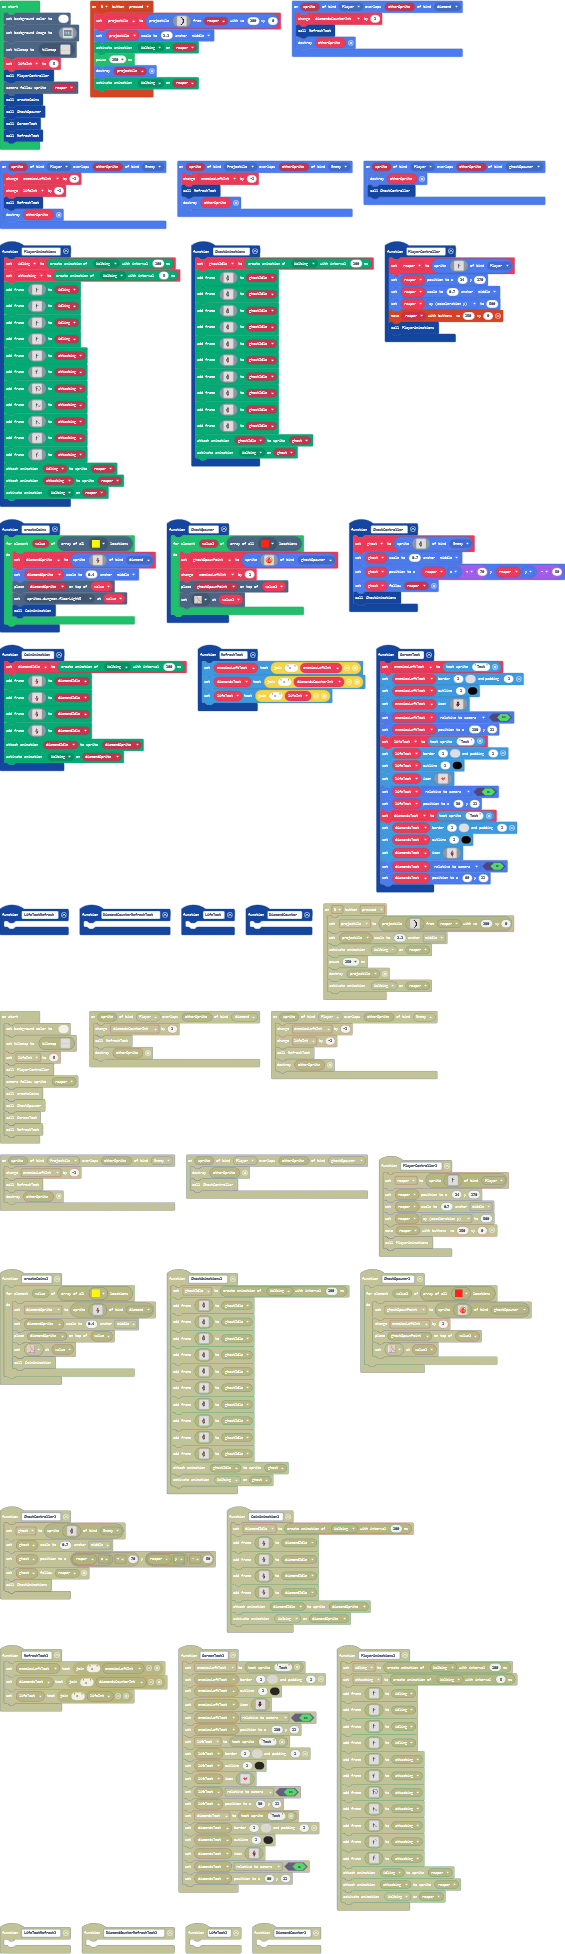
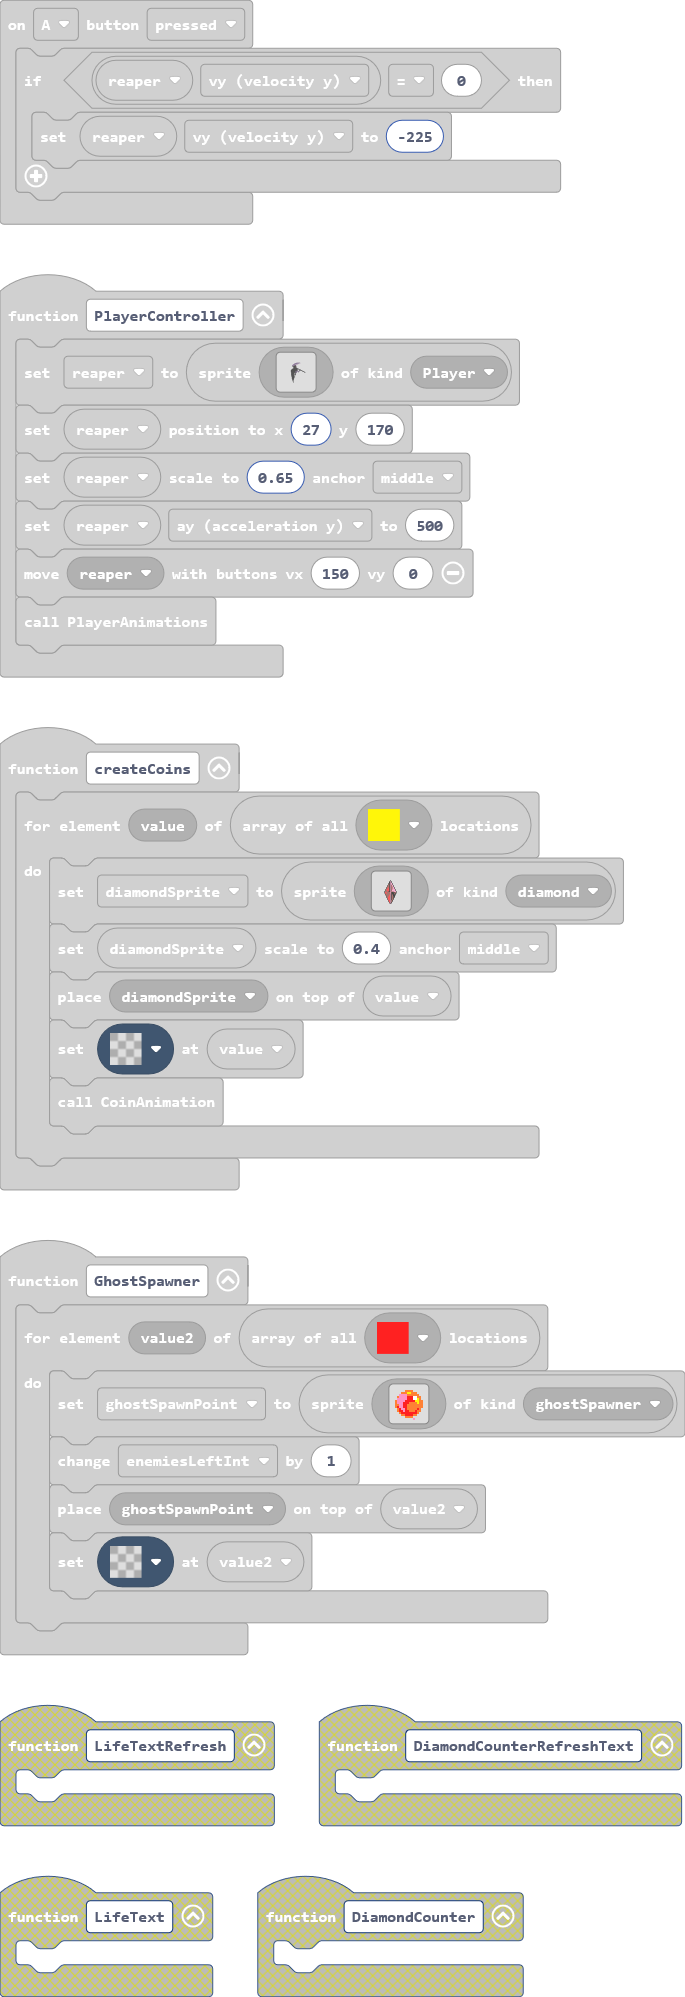
starting level tiles

diff --git a/tilemap.g.ts b/tilemap.g.ts
@@ -6,6 +6,26 @@ namespace myTiles {
     export const tile1 = image.ofBuffer(hex``);
     //% fixedInstance jres blockIdentity=images._tile
     export const tile2 = image.ofBuffer(hex``);
+    //% fixedInstance jres blockIdentity=images._tile
+    export const tile4 = image.ofBuffer(hex``);
+    //% fixedInstance jres blockIdentity=images._tile
+    export const tile5 = image.ofBuffer(hex``);
+    //% fixedInstance jres blockIdentity=images._tile
+    export const tile7 = image.ofBuffer(hex``);
+    //% fixedInstance jres blockIdentity=images._tile
+    export const tile6 = image.ofBuffer(hex``);
+    //% fixedInstance jres blockIdentity=images._tile
+    export const tile9 = image.ofBuffer(hex``);
+    //% fixedInstance jres blockIdentity=images._tile
+    export const tile8 = image.ofBuffer(hex``);
+    //% fixedInstance jres blockIdentity=images._tile
+    export const tile10 = image.ofBuffer(hex``);
+    //% fixedInstance jres blockIdentity=images._tile
+    export const tile3 = image.ofBuffer(hex``);
+    //% fixedInstance jres blockIdentity=images._tile
+    export const tile11 = image.ofBuffer(hex``);
+    //% fixedInstance jres blockIdentity=images._tile
+    export const tile12 = image.ofBuffer(hex``);
 
     helpers._registerFactory("tilemap", function(name: string) {
         switch(helpers.stringTrim(name)) {
@@ -66,25 +86,44 @@ namespace myTiles {
 . . . . . . . . . . . . . . . . 
 . . . . . . . . . . . . . . . . 
 `, [myTiles.transparency16], TileScale.Sixteen);
+            case "level5":
+            case "level5":return tiles.createTilemap(hex`1000100000000000000000000000000000000000000000000000000000000000000000000000000000000000000000000000000000000000000000000000000000000000000000000000000000000000000000000000000000000000000000000000000000000000000000000000000000000000000000000000000000000000000000000000000000000000000000000000000000000000000000000000000000000000000000000000000000000000000000000000000000000000000000000000000000000000000000000000000000000000000000000000000000000000000000000000000000000000000000000000000000000000000000000000000000000000`, img`
+. . . . . . . . . . . . . . . . 
+. . . . . . . . . . . . . . . . 
+. . . . . . . . . . . . . . . . 
+. . . . . . . . . . . . . . . . 
+. . . . . . . . . . . . . . . . 
+. . . . . . . . . . . . . . . . 
+. . . . . . . . . . . . . . . . 
+. . . . . . . . . . . . . . . . 
+. . . . . . . . . . . . . . . . 
+. . . . . . . . . . . . . . . . 
+. . . . . . . . . . . . . . . . 
+. . . . . . . . . . . . . . . . 
+. . . . . . . . . . . . . . . . 
+. . . . . . . . . . . . . . . . 
+. . . . . . . . . . . . . . . . 
+. . . . . . . . . . . . . . . . 
+`, [myTiles.transparency16], TileScale.Sixteen);
             case "level":
-            case "level3":return tiles.createTilemap(hex`800010000000000000000000000000000000000000000000000000000000000000000000000000000000000000000000000000000000000000000000000000000000000000000000000000000000000000000000000000000000000000000000000000000000000000000000000000000000000000000000000000000000000000000000000000000000000000000000000000000000000000000000000000000000000000000000000000000000000000000000000000000000000000000000000000000000000000000000000000000000000000000000000000000000000000000000000000000000000000000000000000000000000000000000000000000000000000000000000000000000000000000000000000000000000000000000000000000000000000000000000000000000000000000000000000000000000000000000000000000000000000000000000000000000000000000000000000000000000000000000000000000000000000000000000000000000000000000000000000000000000000000000000000000000000000000000000000000000000000000000000000000000000000000000000000000000000000000000000000000000000000000000000000000000000000000000000000000000000000000000000000000000000000000000000000000000000000000000000000000000000000000000000000000000000000000000000000000000000000000000000000000000000000000000000000000000000000000000000000000000000000000000000000000000000000000000000000000000000000000000000000000000000000000000000000000000000000000000000000000000000000000000000000000000000000000000000000000000000000000000000000000000000000000000000000000000000000000000000000000000000000000000000000000000000000000000000000000000000000000000000000000000000000000000000000000000000000000000000000000000000000000000000000000000000000000000000000000000000000000000000000000000000000000000000000000000000000000000000000000000000000000000000000000000000000000000000000000000000000000000000000000000000000000000000000000000000000000000000000000000000000000000000000000000000000000000000000000000000000000000000000000000000000000000000000000000000000000000000000000000000000000000000000000000000000000000000000000000000000000000000000000000000000000000000000000000000000000000000000000000000000000000000000000000000000000000000000000000000000000000000000000000000000000000000000000000000000000000000000000000000000000000000000000000000000000000000000000000000000000000000000000000000000000000000000000000000000000000000000000000000000000000000000000000000000000000000000000000000000000000000000000000000000000000000000000000000000000000000000000000000000000000000000000000000000000000000000000000000000000000000000000000000000000000000000000000000000000000000000000000000000000000000000000000000000000000000000000000000000000000000000000000000000000000000000000000000000000000000000000000000000000000000000000000000000000000000000000000000000000000000000000000000000000000000000000000000000000000000000000000000000000000000000000000000000000000000000000000000000000000000000000000000000000000000000000000000000000000000000000000000000000000000000000000000000000000000000000000000000000000000000000000000000000000000000000000000000000000000000000000000000000000000000000000000000000000000000000000000000000000000000000000000000000000000000000000000000000000000000000000000000000000000000000000000000000000000000000000000000000000000000000000000000000000000000000000000000000000000000000000000000000000000000000000000000000000000000000000000000000000000000000000000000000000000000000000000000000000000000000000000000000000000000000000000000000000030404040404000000000000000000000000000000000000000000000000000000000000000000000000000000000000000000000000000000000000000000000000000000000000000000000000000000000000000000000000000000000000000000000000000000000000000000000000000000000000000000000000000001010101010101010101010101010101010101010101010101010101010101010101010101010101010101010101010101010101010101010101010101010101010101010101010101010101010101010101010101010101010101010101010101010101010101010101010101010101010101010101010101010101010101010202020202020202020202020202020202020202020202020202020202020202020202020202020202020202020202020202020202020202020202020202020202020202020202020202020202020202020202020202020202020202020202020202020202020202020202020202020202020202020202020202020202020202`, img`
[1 lines of base64/hex data omitted]
+................................................................................................................................
+2...............................................................................................................................
+2...............................................................................................................................
+2............222................................................................................................................
+2.......................2.......................................................................................................
+2............2.......222........................................................................................................
+2............2..........2.......................................................................................................
+2222222......2..........2.......................................................................................................
+2.............22........2.......................................................................................................
+2.......................2.......................................................................................................
+2.......................2.......................................................................................................
+2....................222........................................................................................................
+2...............................................................................................................................
+222222........2222222222........................................................................................................
 ................................................................................................................................
 ................................................................................................................................
-................................................................................................................................
-................................................................................................................................
-................................................................................................................................
-................................................................................................................................
-................................................................................................................................
-................................................................................................................................
-................................................................................................................................
-................................................................................................................................
-................................................................................................................................
-................................................................................................................................
-................................................................................................................................
-222222..........................................................................................................................
-................................................................................................................................
-................................................................................................................................
-`, [myTiles.transparency16,sprites.dungeon.hazardLava0,sprites.dungeon.hazardLava1,sprites.dungeon.purpleOuterSouthEast,sprites.dungeon.purpleOuterSouth0], TileScale.Sixteen);
+`, [myTiles.transparency16,sprites.dungeon.hazardLava0,sprites.dungeon.hazardLava1,myTiles.tile3,myTiles.tile4,myTiles.tile5,myTiles.tile6,myTiles.tile7,myTiles.tile9,myTiles.tile8,myTiles.tile10,myTiles.tile12,myTiles.tile1,myTiles.tile2], TileScale.Sixteen);
         }
         return null;
     })
@@ -96,6 +135,26 @@ namespace myTiles {
             case "tile1":return tile1;
             case "myTile0":
             case "tile2":return tile2;
+            case "myTile1":
+            case "tile4":return tile4;
+            case "column1":
+            case "tile5":return tile5;
+            case "bottom3":
+            case "tile7":return tile7;
+            case "bottom2":
+            case "tile6":return tile6;
+            case "woodBottom1":
+            case "tile9":return tile9;
+            case "woodBottom2":
+            case "tile8":return tile8;
+            case "woodBottom3":
+            case "tile10":return tile10;
+            case "bottom 1":
+            case "tile3":return tile3;
+            case "myTile2":
+            case "tile11":return tile11;
+            case "myTile3":
+            case "tile12":return tile12;
         }
         return null;
     })

diff --git a/main.ts b/main.ts
@@ -47,7 +47,7 @@ controller.B.onEvent(ControllerButtonEvent.Pressed, function () {
 })
 controller.A.onEvent(ControllerButtonEvent.Pressed, function () {
     if (reaper.vy == 0) {
-        reaper.vy = -200
+        reaper.vy = -225
     }
 })
 scene.onOverlapTile(SpriteKind.Player, sprites.dungeon.hazardLava0, function (sprite, location) {
@@ -76,9 +76,6 @@ sprites.onOverlap(SpriteKind.Player, SpriteKind.diamond, function (sprite, other
     RefreshText()
     sprites.destroy(otherSprite)
 })
-function DiamondCounterRefreshText () {
-	
-}
 function RefreshText () {
     enemiesLeftText.setText(": " + enemiesLeftInt)
     diamondsText.setText(": " + diamondsCounterInt)
@@ -86,8 +83,8 @@ function RefreshText () {
 }
 function PlayerController () {
     reaper = sprites.create(assets.image`ReaperIdle1`, SpriteKind.Player)
-    reaper.setPosition(24, 170)
-    reaper.setScale(0.7, ScaleAnchor.Middle)
+    reaper.setPosition(27, 170)
+    reaper.setScale(0.65, ScaleAnchor.Middle)
     reaper.ay = 500
     controller.moveSprite(reaper, 150, 0)
     PlayerAnimations()
@@ -195,15 +192,12 @@ function ScreenText () {
     diamondsText.setFlag(SpriteFlag.RelativeToCamera, true)
     diamondsText.setPosition(80, 11)
 }
-function LifeText () {
-	
-}
 function createCoins () {
     for (let value of tiles.getTilesByType(assets.tile`myTile`)) {
         diamondSprite = sprites.create(assets.image`Diamond1`, SpriteKind.diamond)
         diamondSprite.setScale(0.4, ScaleAnchor.Middle)
         tiles.placeOnTile(diamondSprite, value)
-        tiles.setTileAt(value, sprites.dungeon.floorLight5)
+        tiles.setTileAt(value, assets.tile`transparency16`)
         CoinAnimation()
     }
 }
@@ -213,12 +207,6 @@ function GhostController () {
     ghost.setPosition(reaper.x + 70, reaper.y - 50)
     ghost.follow(reaper)
     GhostAnimations()
-}
-function LifeTextRefresh () {
-	
-}
-function DiamondCounter () {
-	
 }
 sprites.onOverlap(SpriteKind.Projectile, SpriteKind.Enemy, function (sprite, otherSprite) {
     enemiesLeftInt += -1
@@ -247,7 +235,7 @@ function GhostSpawner () {
             `, SpriteKind.ghostSpawner)
         enemiesLeftInt += 1
         tiles.placeOnTile(ghostSpawnPoint, value2)
-        tiles.setTileAt(value2, sprites.dungeon.floorLight5)
+        tiles.setTileAt(value2, assets.tile`transparency16`)
     }
 }
 sprites.onOverlap(SpriteKind.Player, SpriteKind.Enemy, function (sprite, otherSprite) {
